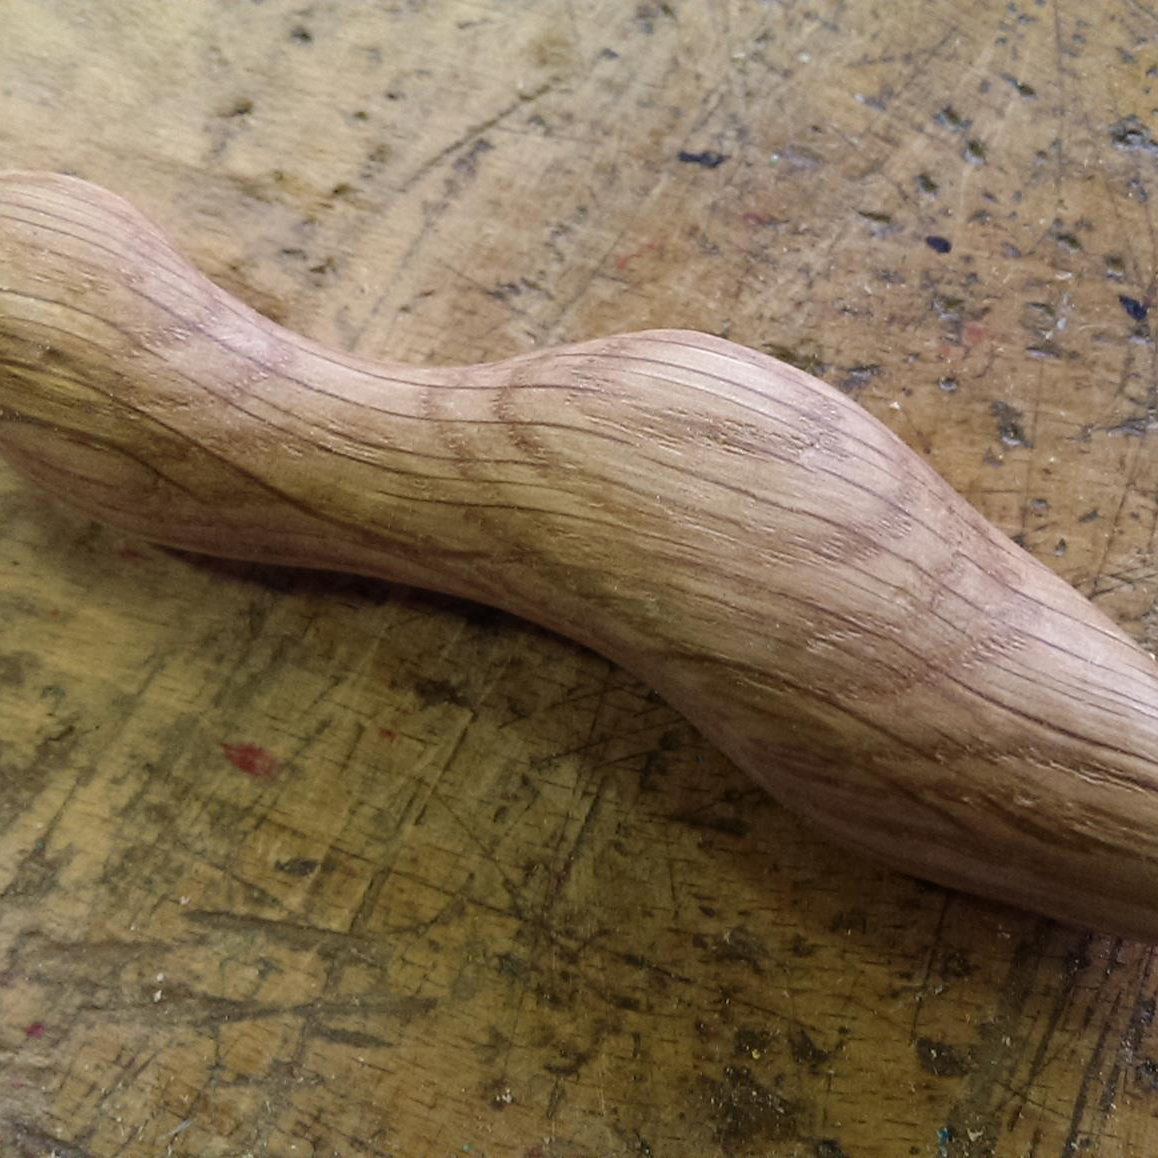
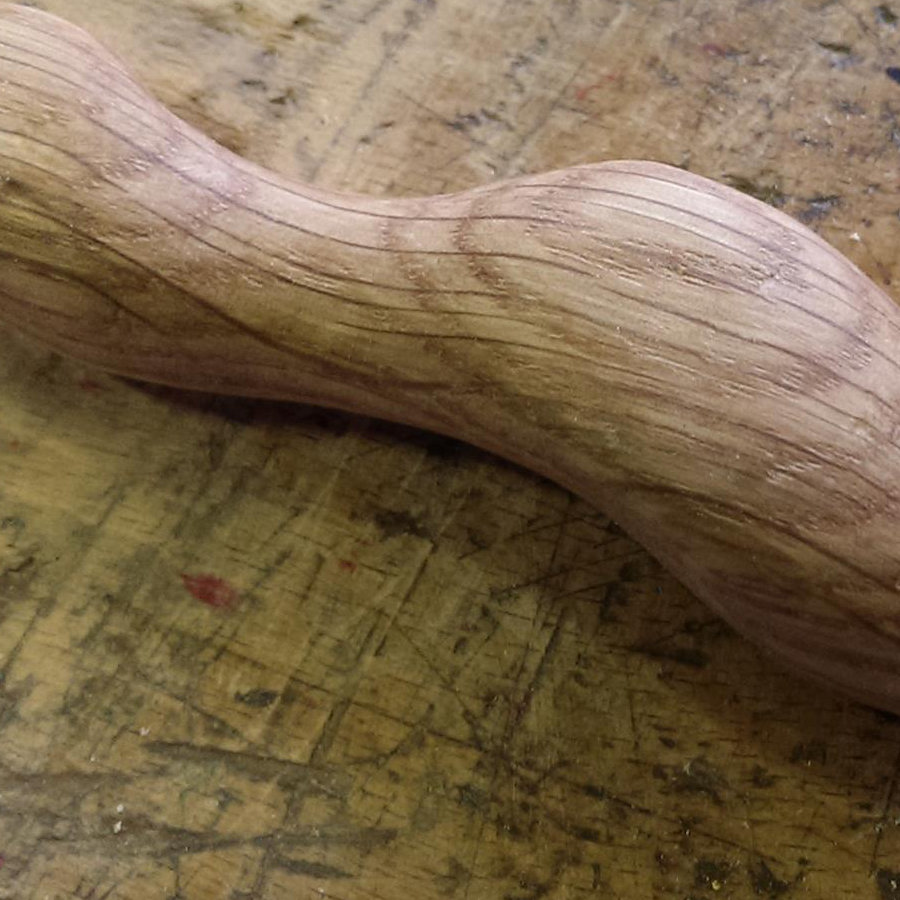
Re-crop pen image, make project description easier to read

diff --git a/styles.scss b/styles.scss
@@ -1,4 +1,3 @@
-// https://coolors.co/939fab-087e8b-ff5a5f-3c3c3c-f5f5f5
 @import "variables";
 
 /* Resets
@@ -264,7 +263,7 @@ main {
   padding: 1em 0.5em;
   text-align: center;
   clip-path: polygon(0 0, 100% 0, 75% 100%, 25% 100%);
-  background-color: rgba($red, 0.5);
+  background-color: rgba($red, 0.7);
   color: $white;
 
   h3 {

diff --git a/_variables.scss b/_variables.scss
@@ -10,6 +10,7 @@ $font-body: 'PT Sans', serif;
 // Colours
 //---------------------/
 $white: #F5F5F5;
+$dark-grey: #939FAB;
 $red: #FF5A5F;
 $blue: #087E8B;
 $black: #3C3C3C;
